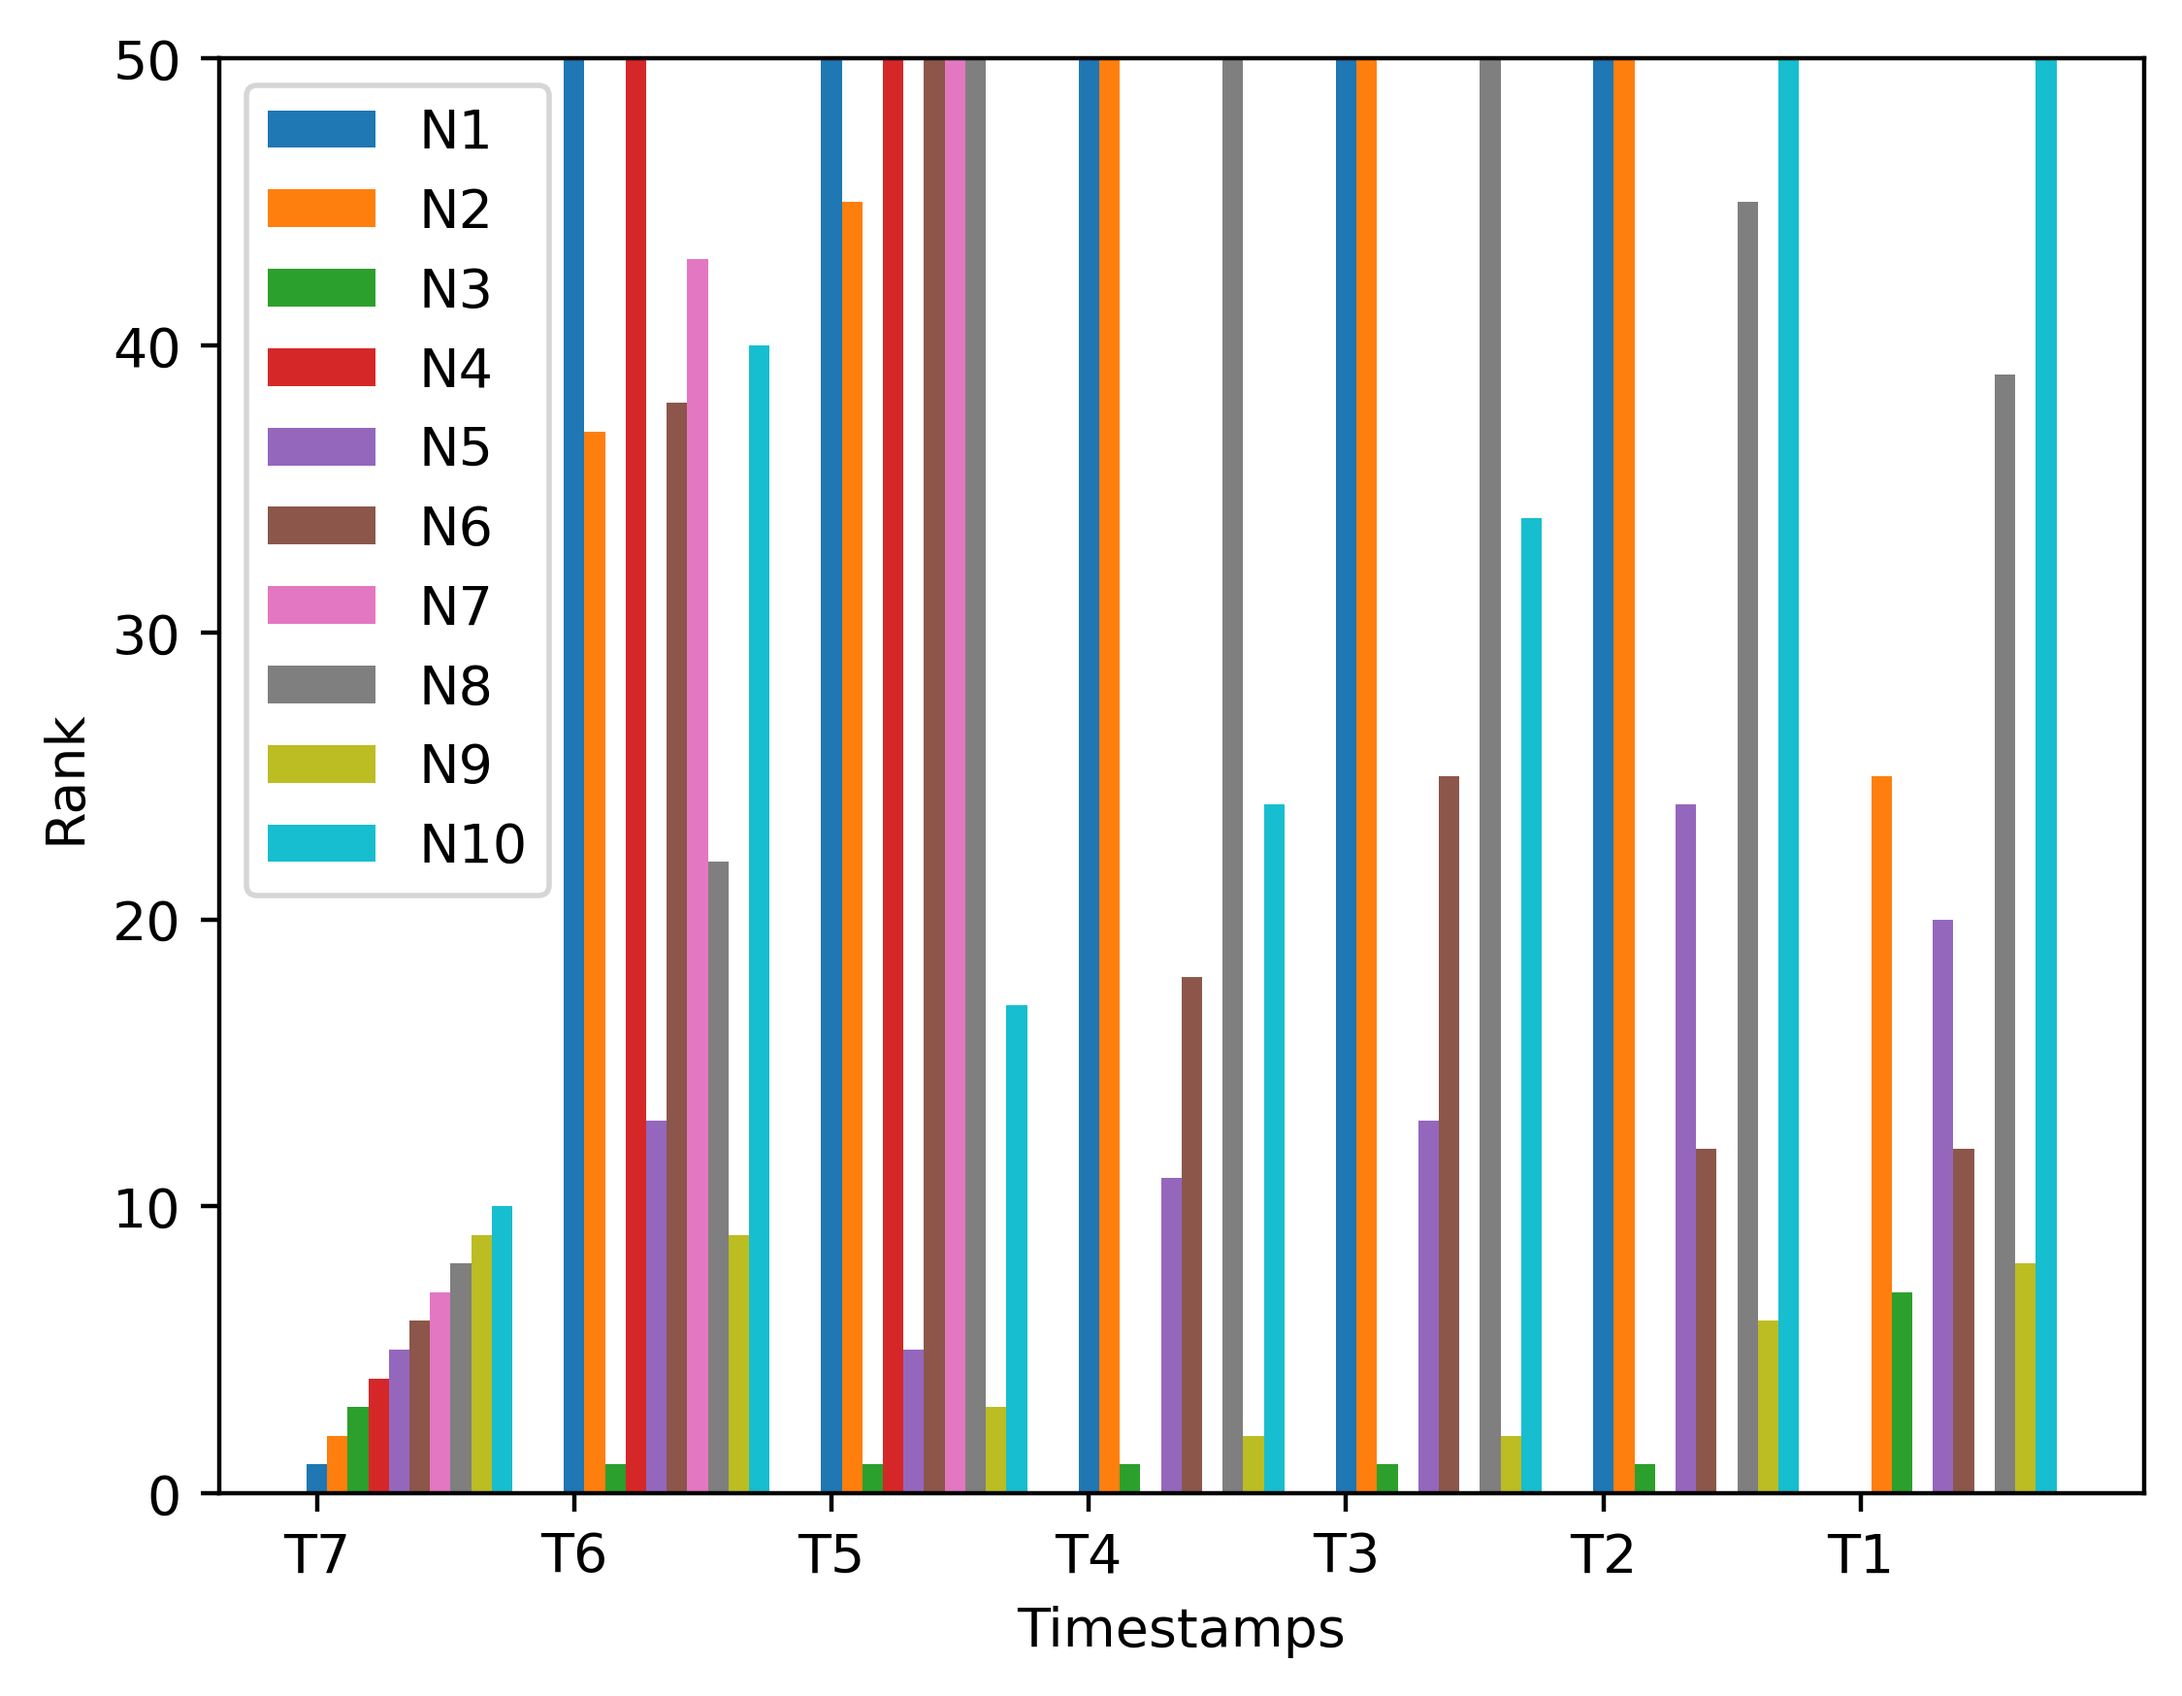
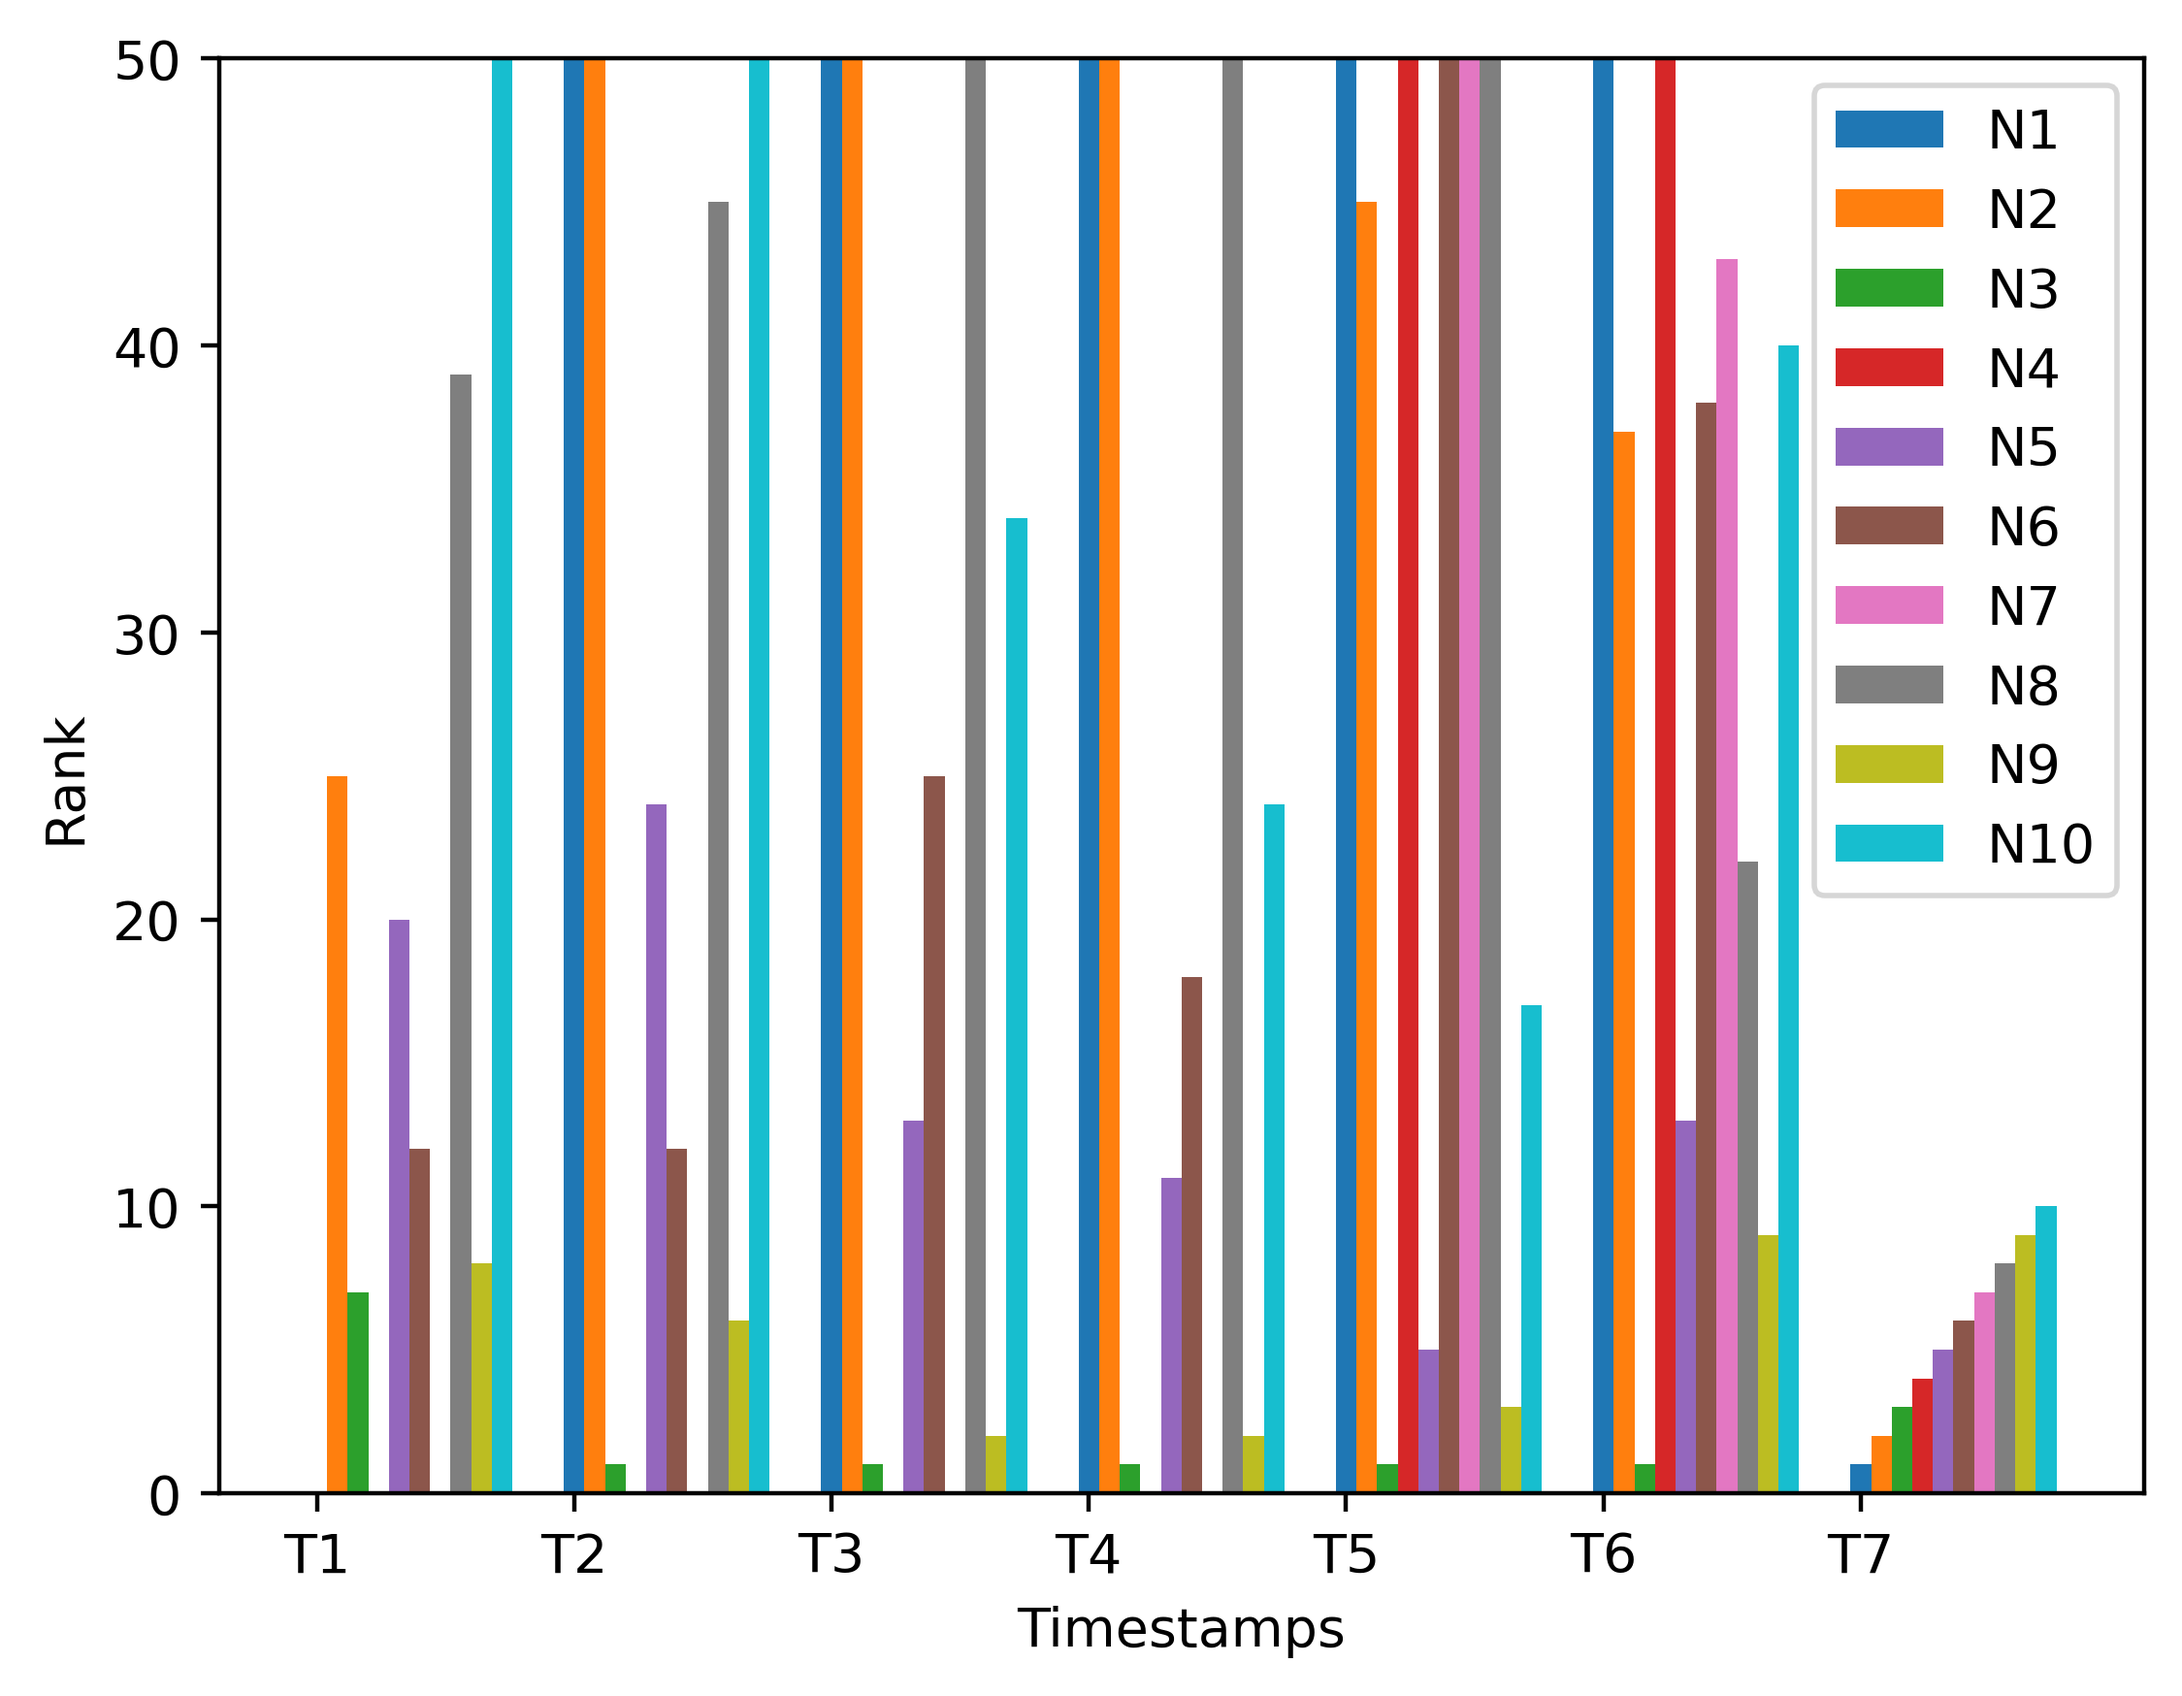
new stuff

diff --git a/analysis/top_10.py b/analysis/top_10.py
@@ -4,12 +4,18 @@ from pathlib import Path
 import numpy as np
 import os
 
-def plot_line(df, timestamps, name):
+def plot_line(df, timestamps, name, reverse=False):
 
     ranks = list()
     for i in range(len(df)):
         node_ranks = list(df.iloc[i])
-        ranks.append(node_ranks[2:])
+        if reverse == True:
+            n = node_ranks[2:]
+            n.reverse()
+            ranks.append(n)
+        else:
+            ranks.append(node_ranks[2:])
+
     # fig = plt.figure()
     # ax = fig.add_axes([0, 0, 1, 1])
     plt.ylim(0, 50)
@@ -48,5 +54,5 @@ df_newest = pd.read_csv(filepath_newest)
 df_oldest = pd.read_csv(filepath_oldest)
 
 plot_line(df_newest, timestamps_short, 'newest')
-timestamps_short.reverse()
-plot_line(df_oldest, timestamps_short, 'oldest')
+# timestamps_short.reverse()
+plot_line(df_oldest, timestamps_short, 'oldest', reverse=True)
